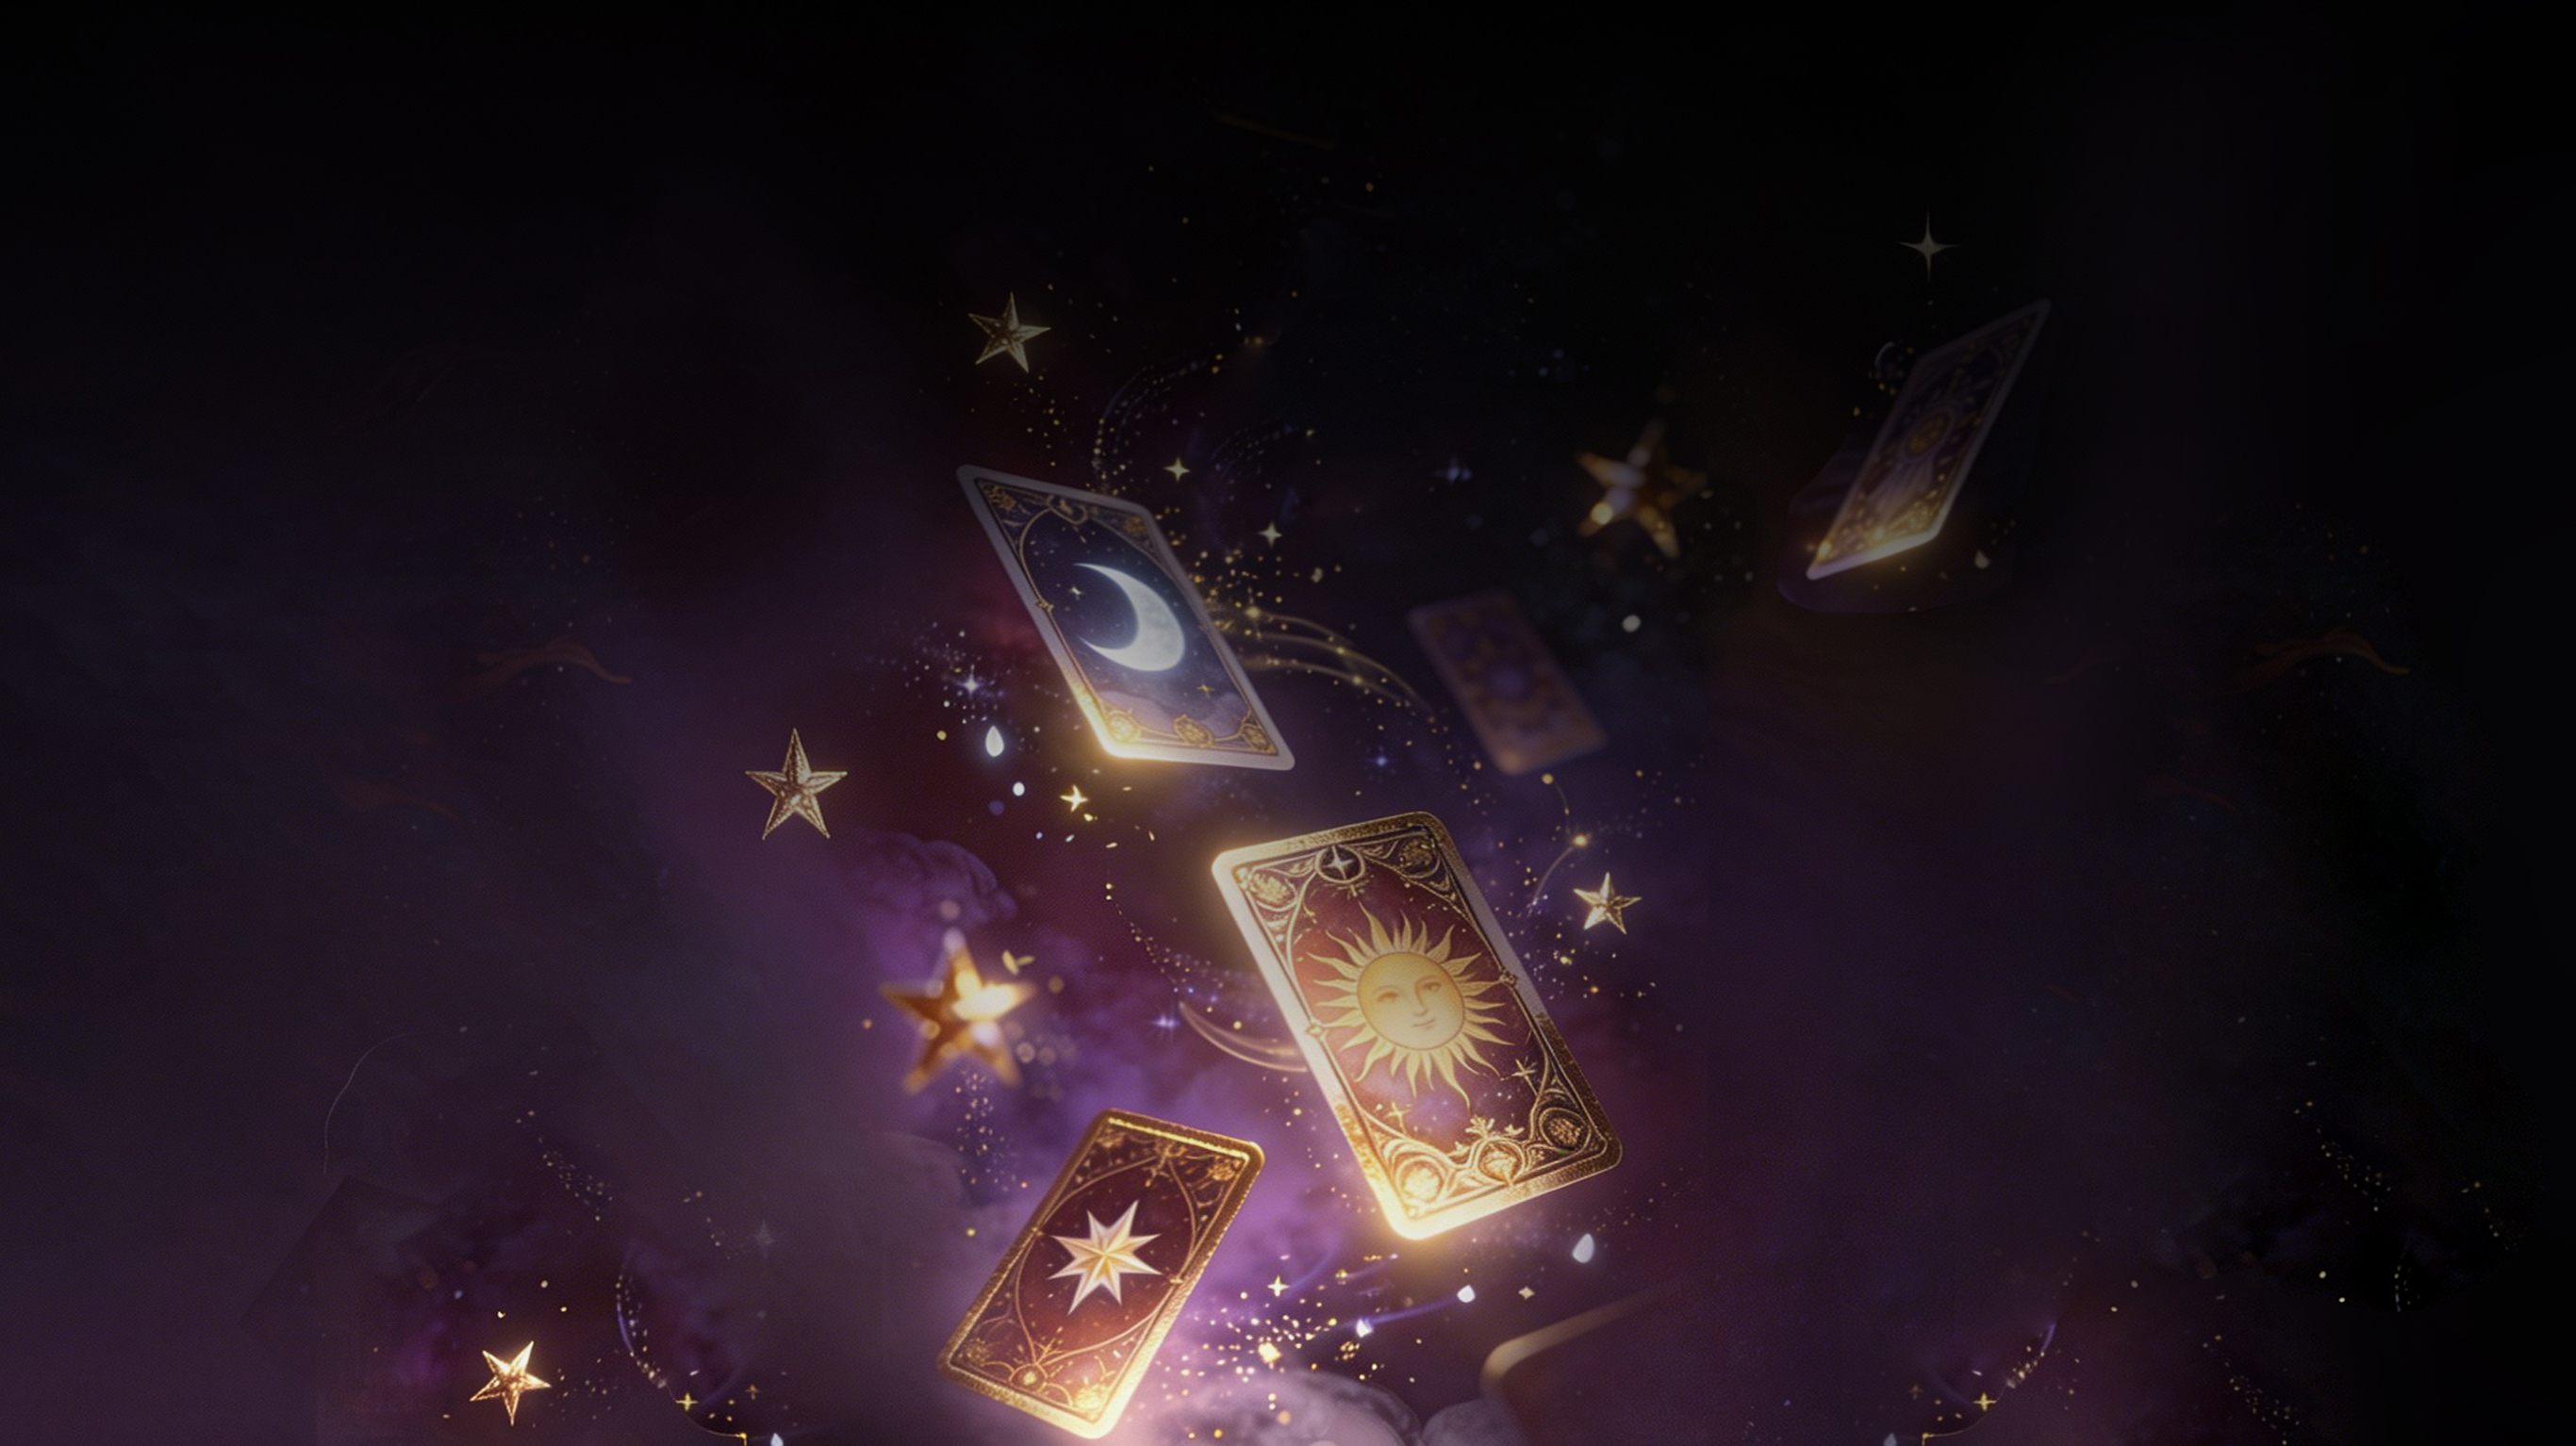
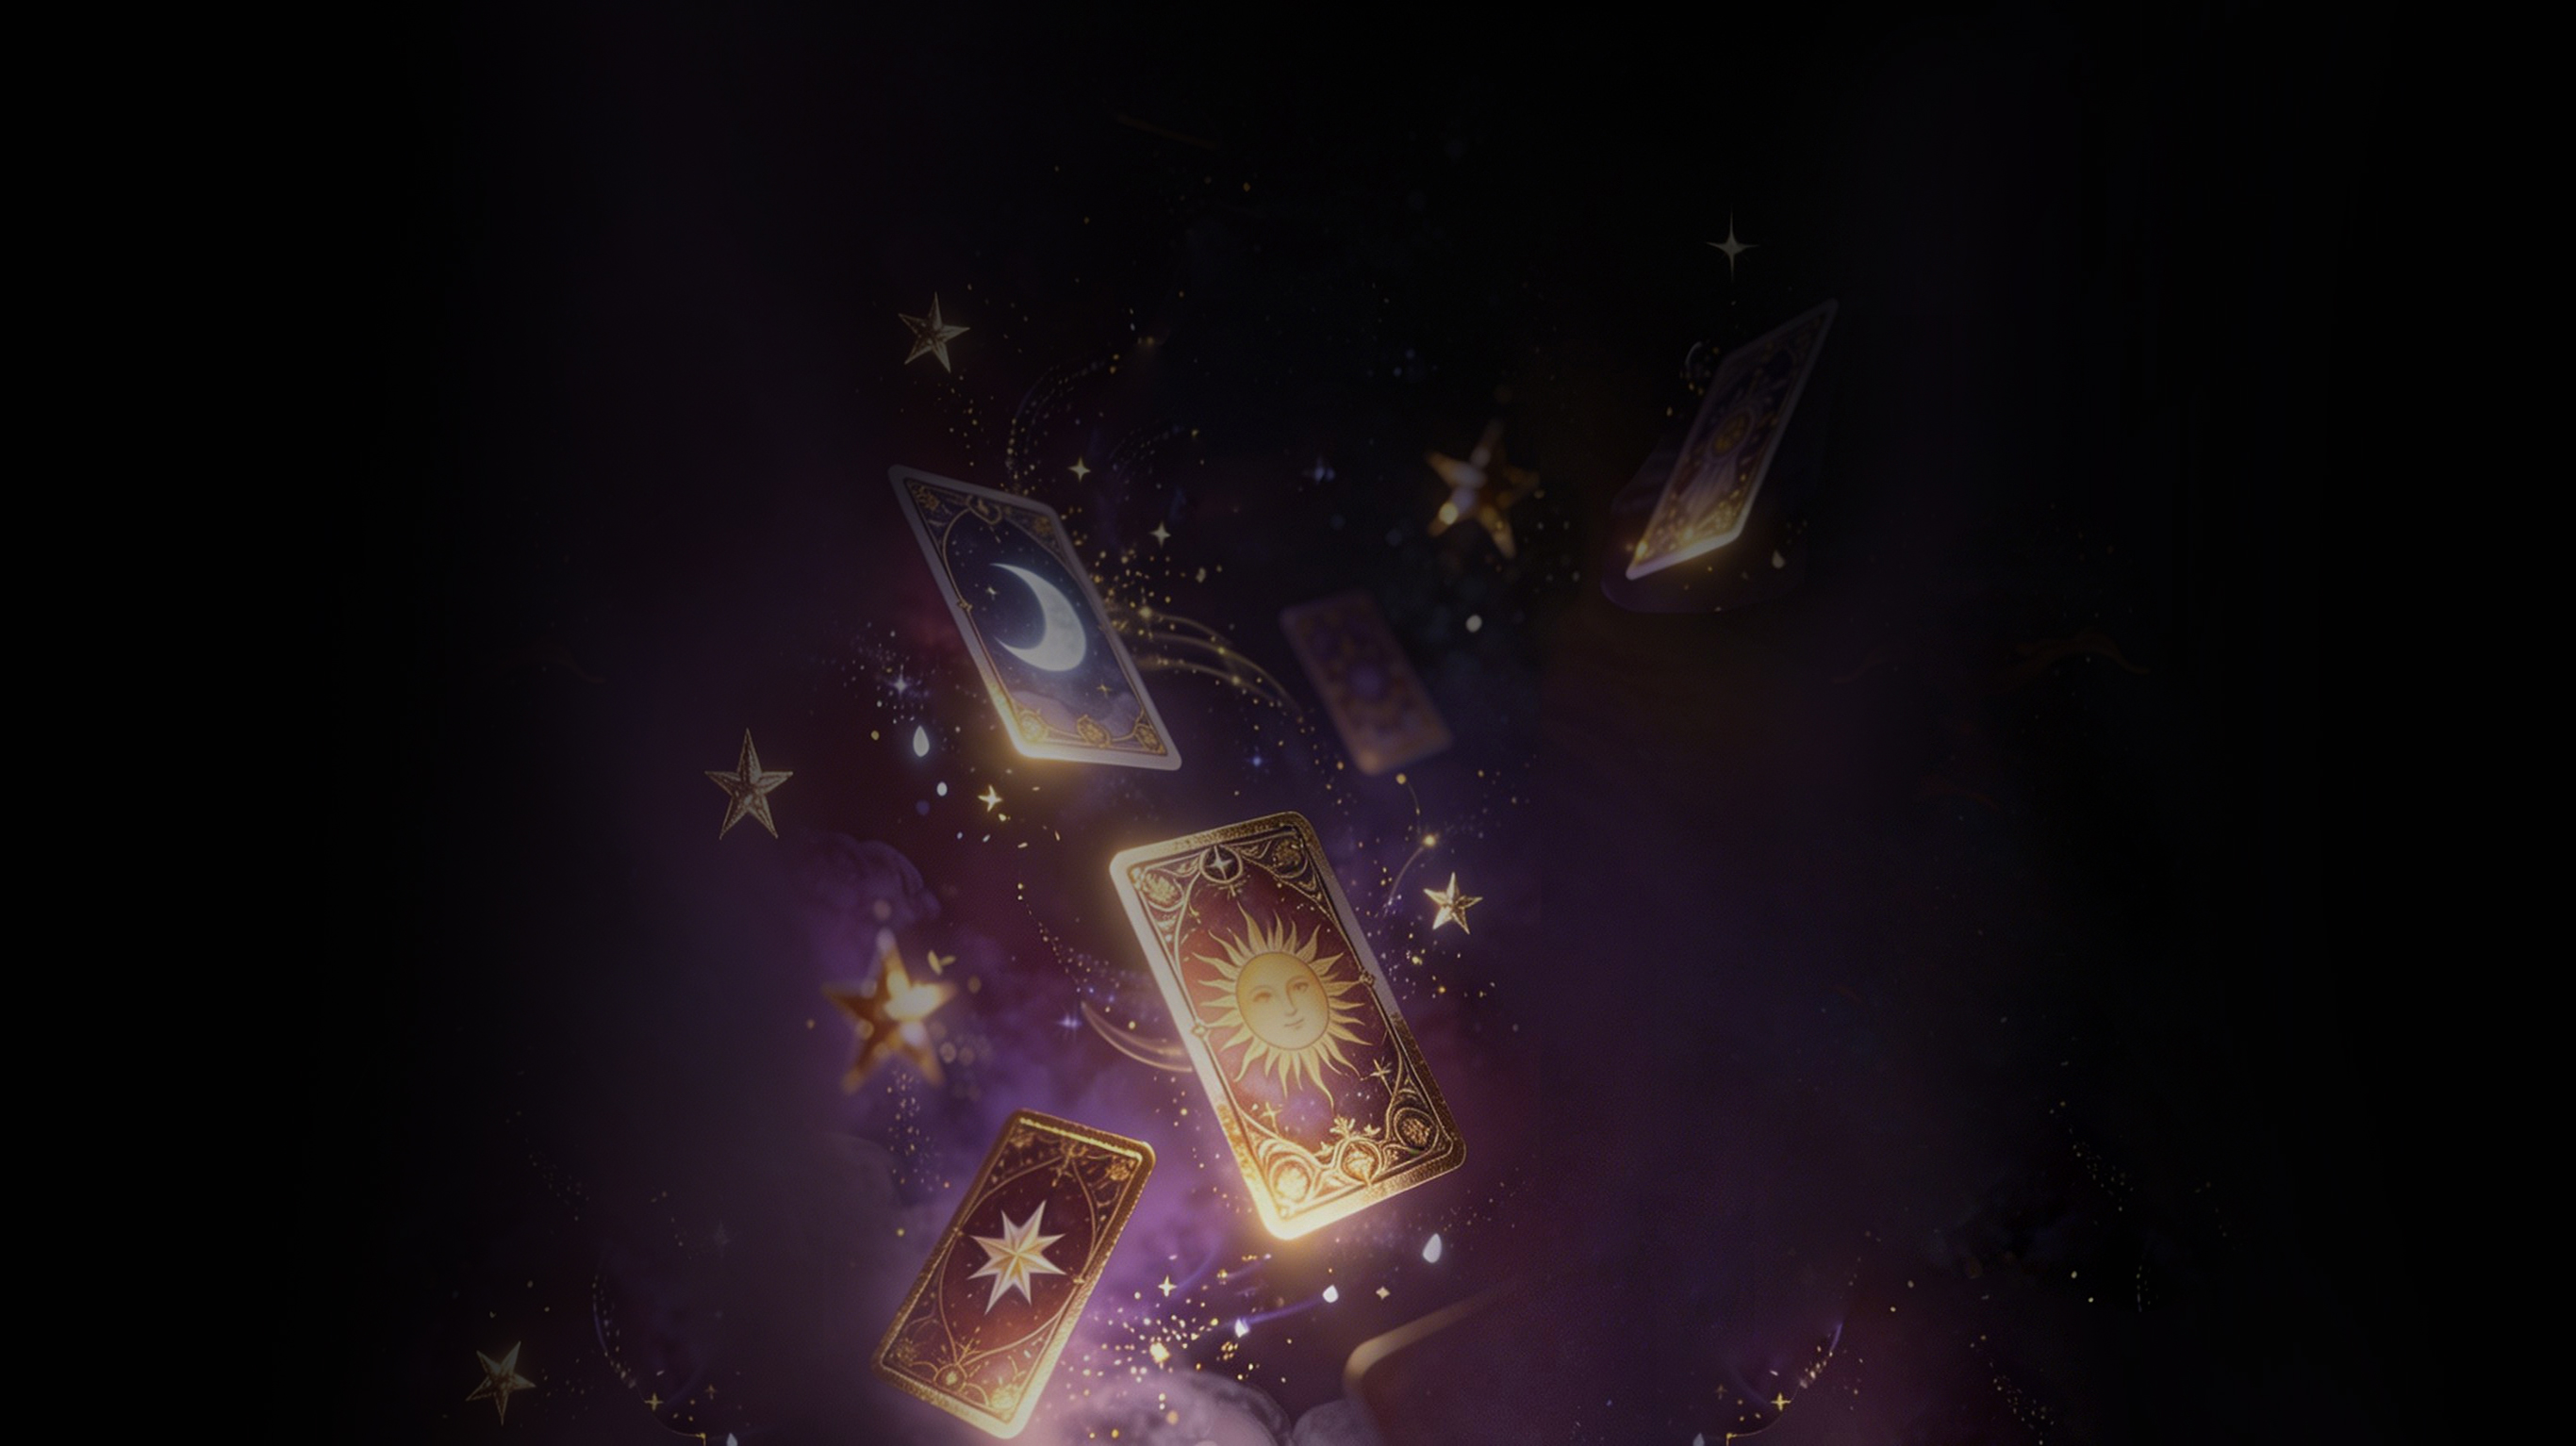
chore: replace hero bg with new tarot cards + revert inactive flex to 5

diff --git a/src/app/page.tsx b/src/app/page.tsx
@@ -354,9 +354,9 @@ export default function Home() {
                     key={master.id}
                     onClick={() => setActiveMasterIdx(i)}
                     className={`relative rounded-2xl overflow-hidden cursor-pointer transition-all duration-500 ease-out ${
-                      isActive ? 'flex-[20]' : 'flex-[3]'
+                      isActive ? 'flex-[20]' : 'flex-[5]'
                     }`}
-                    style={{ flex: isActive ? 20 : 3 }}
+                    style={{ flex: isActive ? 20 : 5 }}
                   >
                     <div className="absolute inset-0 bg-gradient-to-t from-black/70 via-black/20 to-transparent z-10" />
                     <img